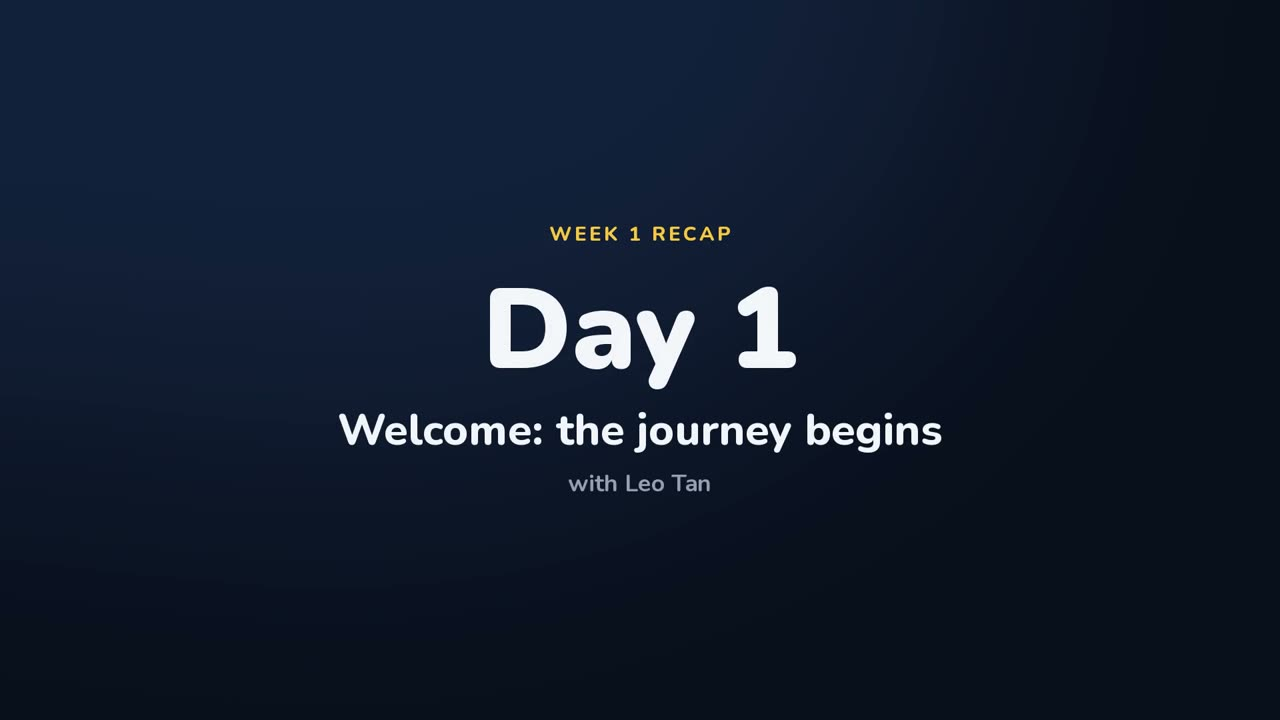
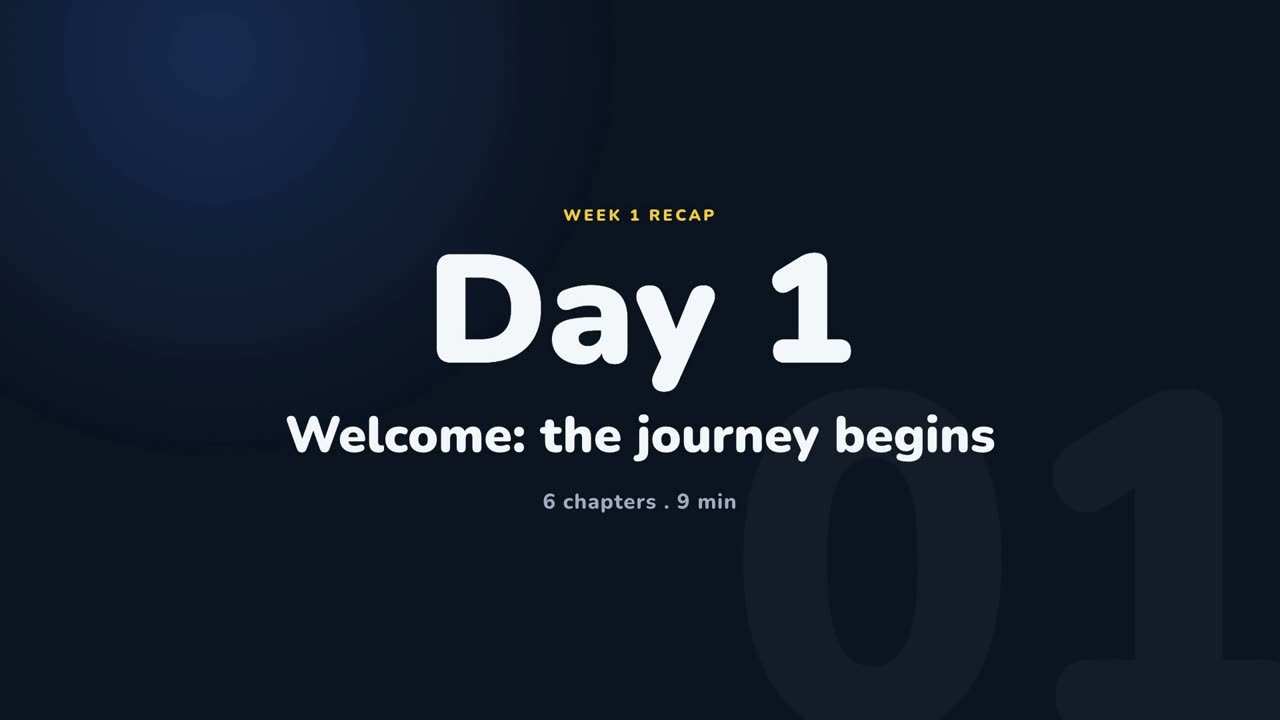
feat: Week 1 Day 1 recap video gets motion graphics, moving B-roll, a cold open and a tighter 9-minute cut

Changed region(s): [[0.3125, 0.3361, 0.6875, 0.55], [0.2188, 0.5806, 0.7812, 0.7333], [0.4062, 0.0, 0.5938, 0.3667]]

diff --git a/src/features/first-60-days/recapVideos.ts b/src/features/first-60-days/recapVideos.ts
@@ -5,11 +5,11 @@ import type { RecapChapter } from "@/components/first-60-days/RecapVideo";
 export const RECAP_CHAPTERS: Record<string, RecapChapter[]> = {
   "recap-w1-d1": [
     ["Why this career", 0],
-    ["Every life is worth planning for", 149],
-    ["Our values", 245],
-    ["Reconnect with your friends", 344],
-    ["Protection first", 468],
-    ["The close is only the start", 508],
+    ["Every life is worth planning for", 140],
+    ["Our values", 224],
+    ["Reconnect with your friends", 313],
+    ["Protection first", 427],
+    ["The close is only the start", 463],
   ],
   "recap-w1-d2": [
     ["The one-third rule", 0],

diff --git a/docs/first-60-days/week-1/recap.md b/docs/first-60-days/week-1/recap.md
@@ -2,7 +2,7 @@
 week: 1
 recap: true
 title: "Week 1 Recap - Foundation & Identity Shift"
-duration_minutes: 58
+duration_minutes: 57
 tags: [first-60-days, week-1, recap]
 ---
 
@@ -10,18 +10,18 @@ tags: [first-60-days, week-1, recap]
 
 > Leo's live recap call, cut into one video per day. Each one is also in its day's Video tab.
 
-## Day 1 . Welcome: the journey begins (10 min)
+## Day 1 . Welcome: the journey begins (9 min)
 
 <video src="https://hgdbflprrficdoyxmdxe.supabase.co/functions/v1/recap-video-proxy?key=recap-w1-d1" poster="/first-60-days/recap/recap-w1-d1.jpg" controls playsinline preload="metadata" crossorigin="anonymous" style="width: 100%; max-width: 960px; border-radius: 12px; display: block; margin: 1rem auto;">
   <track kind="subtitles" srclang="en" label="English" default src="https://hgdbflprrficdoyxmdxe.supabase.co/functions/v1/recap-video-proxy?key=recap-w1-d1.vtt" />
 </video>
 
 - [`00:00`](#t=0) Why this career
-- [`02:29`](#t=149) Every life is worth planning for
-- [`04:05`](#t=245) Our values
-- [`05:44`](#t=344) Reconnect with your friends
-- [`07:48`](#t=468) Protection first
-- [`08:28`](#t=508) The close is only the start
+- [`02:20`](#t=140) Every life is worth planning for
+- [`03:44`](#t=224) Our values
+- [`05:13`](#t=313) Reconnect with your friends
+- [`07:07`](#t=427) Protection first
+- [`07:43`](#t=463) The close is only the start
 
 <details>
 <summary><strong>Lecture notes for Day 1</strong></summary>
